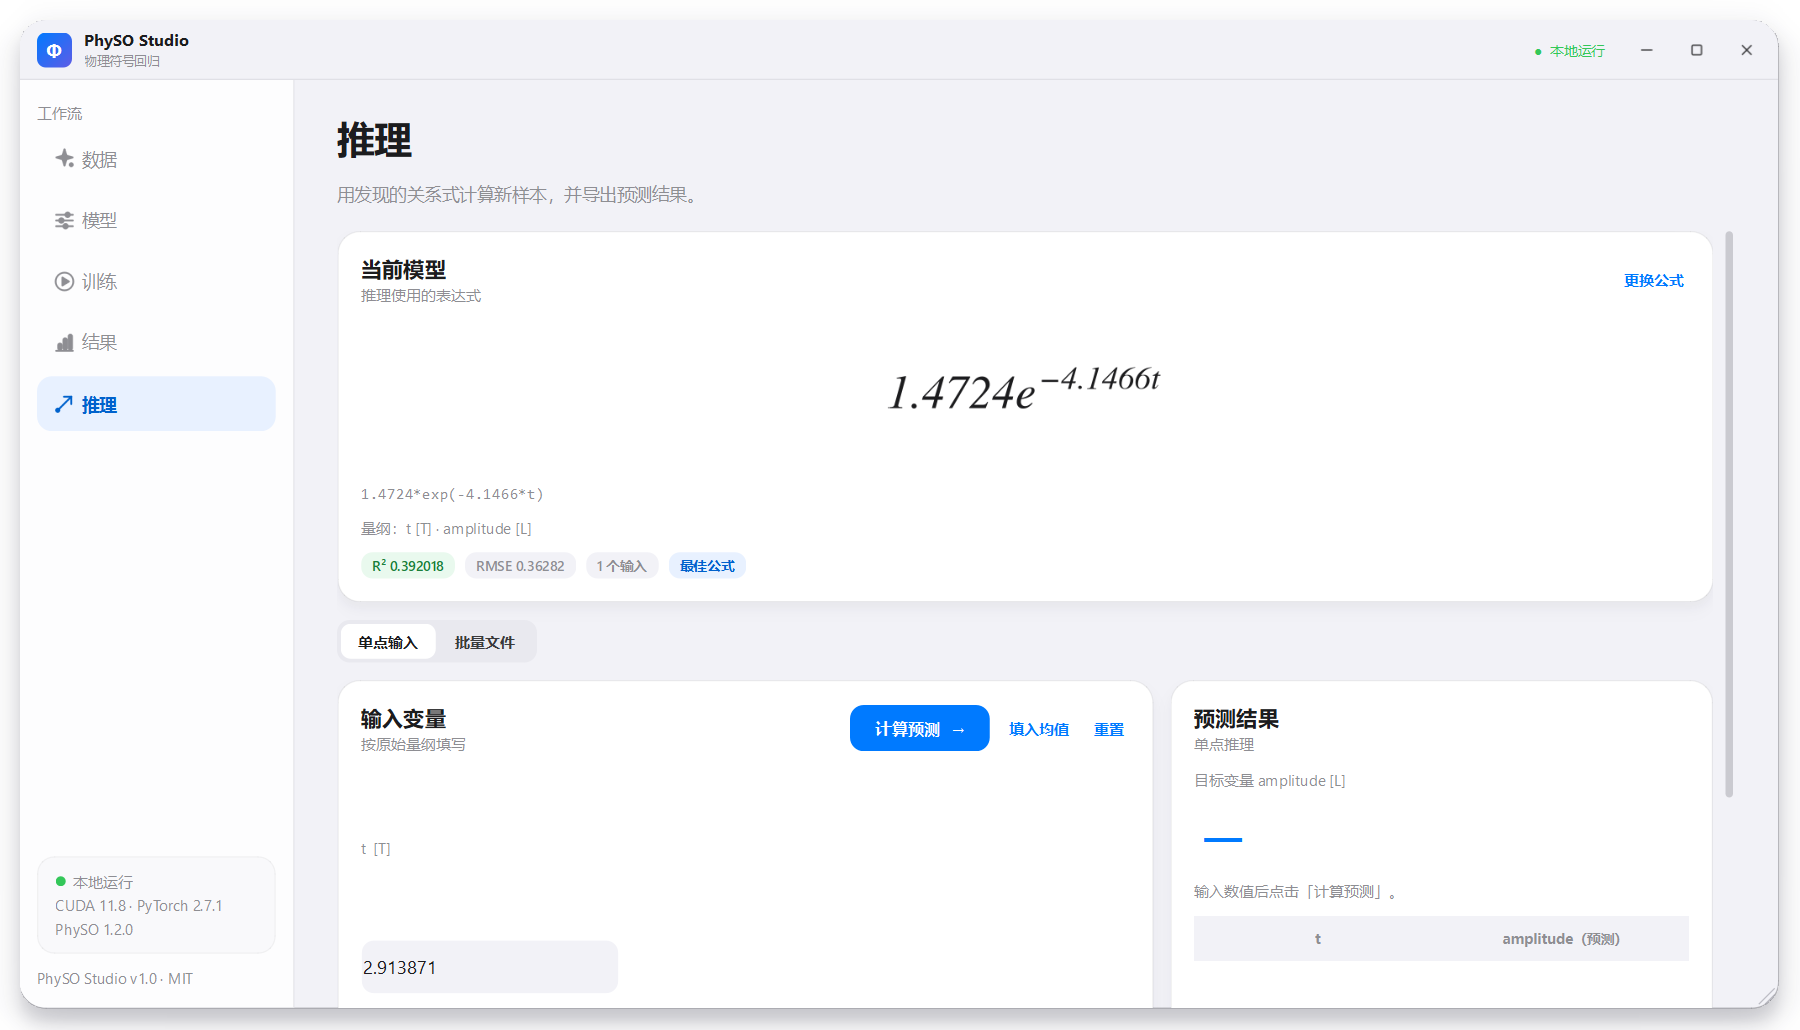
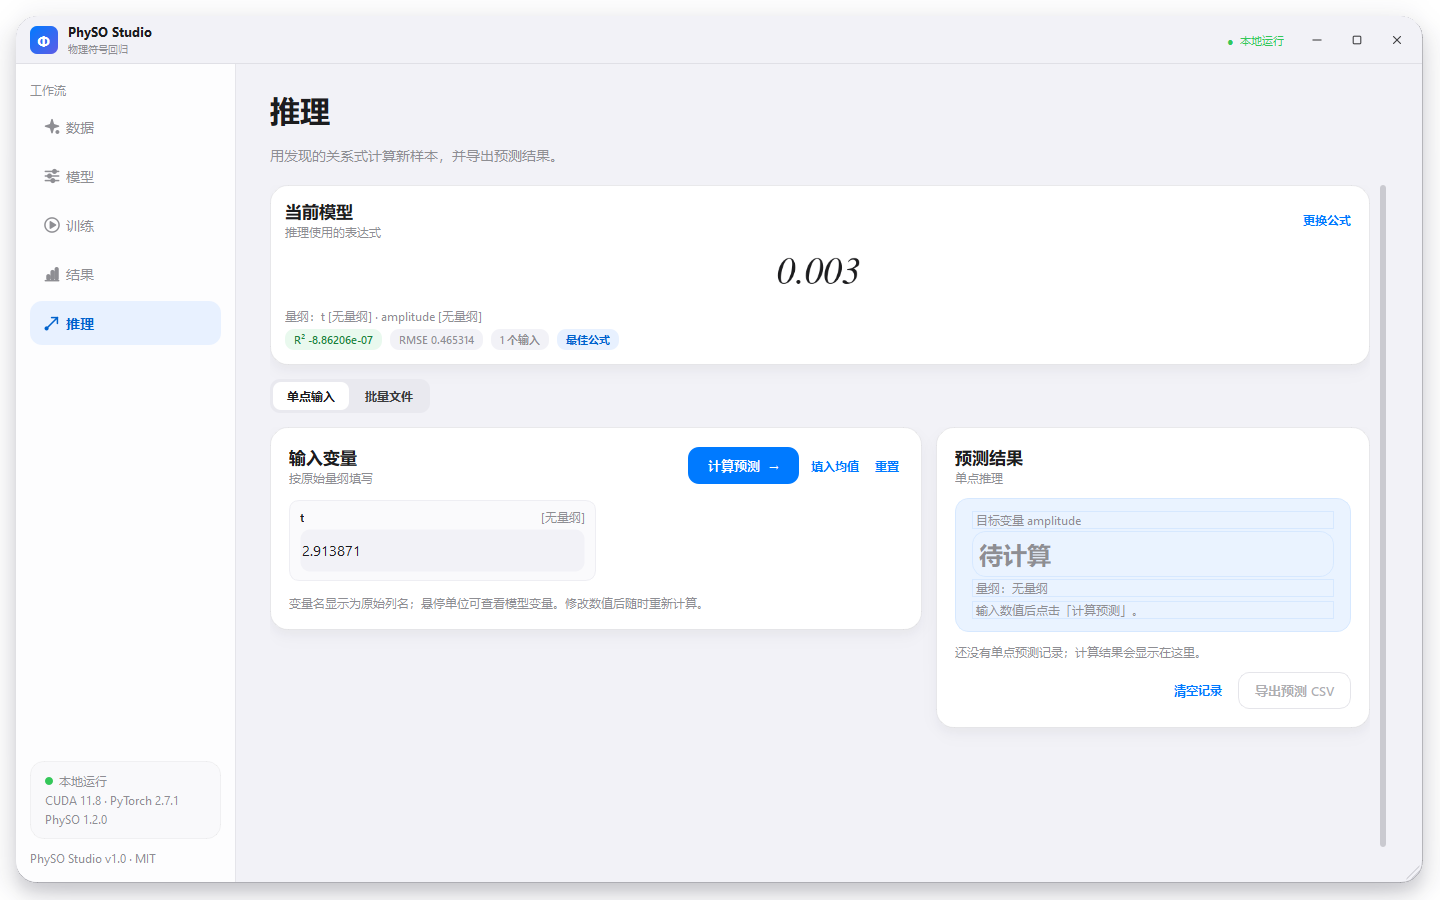
style: refine inference page cards and history empty state

diff --git a/physo_ui/pages/predict_page.py b/physo_ui/pages/predict_page.py
@@ -7,16 +7,17 @@ from pathlib import Path
 import numpy as np
 import pandas as pd
 from PySide6.QtCore import Qt, Signal
-from PySide6.QtGui import QDoubleValidator
 from PySide6.QtWidgets import (
     QDoubleSpinBox,
     QFileDialog,
+    QFrame,
     QGridLayout,
     QHBoxLayout,
     QHeaderView,
     QLabel,
     QMessageBox,
     QPushButton,
+    QSizePolicy,
     QStackedWidget,
     QTableWidget,
     QTableWidgetItem,
@@ -95,10 +96,14 @@ class PredictPage(ScrollPage):
         self.stack = QStackedWidget()
         self.stack.addWidget(self._build_single_panel())
         self.stack.addWidget(self._build_batch_panel())
-        lay.addWidget(self.stack, 1)
+        lay.addWidget(self.stack)
+        lay.addStretch(1)
 
     def _build_model_card(self, parent_layout) -> None:
-        card = Card(padding=18)
+        card = Card(padding=14)
+        self.model_card = card
+        card.layout.setSpacing(5)
+        card.setMaximumHeight(188)
         head = QHBoxLayout()
         head.setSpacing(10)
         head.addWidget(section_title("当前模型", "推理使用的表达式"), 1)
@@ -107,15 +112,18 @@ class PredictPage(ScrollPage):
         self.switch_btn.clicked.connect(self.result_requested.emit)
         head.addWidget(self.switch_btn)
         card.layout.addLayout(head)
-        self.expression_math = MathLabel("", fontsize=20, min_height=62)
+        self.expression_math = MathLabel("", fontsize=20, min_height=40)
+        self.expression_math.setMaximumHeight(58)
         self.expression_math.clear_formula("—")
         card.layout.addWidget(self.expression_math)
         self.expression_label = label("", "Caption", wrap=True, selectable=True)
         self.expression_label.setStyleSheet(
             "font-family: Consolas, 'Cascadia Code', monospace; color:#8E8E93;"
         )
-        card.layout.addWidget(self.expression_label)
+        self.expression_label.setMaximumHeight(0)
+        self.expression_label.setVisible(False)
         self.model_units = label("", "Caption", wrap=True)
+        self.model_units.setMaximumHeight(18)
         card.layout.addWidget(self.model_units)
         meta = QHBoxLayout()
         meta.setSpacing(8)
@@ -139,6 +147,7 @@ class PredictPage(ScrollPage):
 
         input_card = Card(padding=18)
         head = QHBoxLayout()
+        head.setSpacing(8)
         head.addWidget(section_title("输入变量", "按原始量纲填写"), 1)
         calc = QPushButton("计算预测  →")
         calc.setProperty("variant", "primary")
@@ -154,40 +163,59 @@ class PredictPage(ScrollPage):
         self.reset_btn.clicked.connect(self._reset_inputs)
         head.addWidget(self.reset_btn)
         input_card.layout.addLayout(head)
+
         self.form_host = QWidget()
+        self.form_host.setSizePolicy(QSizePolicy.Expanding, QSizePolicy.Maximum)
         self.form_layout = QGridLayout(self.form_host)
-        self.form_layout.setContentsMargins(0, 0, 0, 0)
-        self.form_layout.setHorizontalSpacing(16)
-        self.form_layout.setVerticalSpacing(10)
+        self.form_layout.setContentsMargins(0, 2, 0, 2)
+        self.form_layout.setHorizontalSpacing(12)
+        self.form_layout.setVerticalSpacing(12)
         input_card.layout.addWidget(self.form_host)
-        calc = QPushButton("计算预测  →")
-        calc.setProperty("variant", "primary")
-        calc.setMinimumHeight(38)
-        calc.clicked.connect(self._predict_single)
-        input_card.layout.addWidget(calc)
-        lay.addWidget(input_card, 3)
+        hint = label(
+            "变量名显示为原始列名；悬停单位可查看模型变量。修改数值后随时重新计算。",
+            "Caption",
+            wrap=True,
+        )
+        input_card.layout.addWidget(hint)
+        input_card.layout.addStretch(1)
+        lay.addWidget(input_card, 3, Qt.AlignTop)
 
         out_card = Card(padding=18)
         out_card.layout.addWidget(section_title("预测结果", "单点推理"))
+        pred_box = QFrame()
+        pred_box.setStyleSheet(
+            "QFrame { background:#EAF3FF; border:1px solid #D6E8FF; border-radius:14px; }"
+            "QLabel { background:transparent; }"
+        )
+        pv = QVBoxLayout(pred_box)
+        pv.setContentsMargins(16, 12, 16, 12)
+        pv.setSpacing(2)
         self.pred_caption = label("目标变量 y", "Caption")
-        out_card.layout.addWidget(self.pred_caption)
         self.pred_label = QLabel("—")
         self.pred_label.setTextInteractionFlags(Qt.TextSelectableByMouse)
         self.pred_label.setStyleSheet(
-            f"font-size:30px; font-weight:700; color:{theme.BLUE}; padding:4px 0;"
+            f"font-size:34px; font-weight:700; color:{theme.BLUE}; padding:0;"
         )
-        out_card.layout.addWidget(self.pred_label)
+        self.pred_unit = label("", "Caption")
         self.pred_note = label("输入数值后点击「计算预测」。", "Caption", wrap=True)
-        out_card.layout.addWidget(self.pred_note)
+        pv.addWidget(self.pred_caption)
+        pv.addWidget(self.pred_label)
+        pv.addWidget(self.pred_unit)
+        pv.addSpacing(2)
+        pv.addWidget(self.pred_note)
+        out_card.layout.addWidget(pred_box)
+
         self.history_table = QTableWidget()
         self.history_table.setEditTriggers(QTableWidget.NoEditTriggers)
         self.history_table.verticalHeader().setVisible(False)
         self.history_table.setShowGrid(False)
         self.history_table.setAlternatingRowColors(True)
         self.history_table.setMinimumHeight(120)
-        self.history_table.setMaximumHeight(200)
+        self.history_table.setMaximumHeight(180)
         self.history_table.horizontalHeader().setSectionResizeMode(QHeaderView.Stretch)
         out_card.layout.addWidget(self.history_table)
+        self.history_empty = label("还没有单点预测记录；计算结果会显示在这里。", "Caption", wrap=True)
+        out_card.layout.addWidget(self.history_empty)
         actions = QHBoxLayout()
         actions.addStretch(1)
         self.clear_hist_btn = QPushButton("清空记录")
@@ -200,7 +228,7 @@ class PredictPage(ScrollPage):
         self.export_single_btn.clicked.connect(self._export_single)
         actions.addWidget(self.export_single_btn)
         out_card.layout.addLayout(actions)
-        lay.addWidget(out_card, 2)
+        lay.addWidget(out_card, 2, Qt.AlignTop)
         return panel
 
     def _build_batch_panel(self) -> QWidget:
@@ -263,7 +291,7 @@ class PredictPage(ScrollPage):
         export.setEnabled(False)
         export.clicked.connect(self._export_batch)
         out_card.layout.addWidget(export)
-        lay.addWidget(out_card, 2)
+        lay.addWidget(out_card, 2, Qt.AlignTop)
         return panel
 
     # -------------------------------------------------------------- refresh #
@@ -288,8 +316,12 @@ class PredictPage(ScrollPage):
         self._rebuild_form(result)
         self._history.clear()
         self._refresh_history_table()
-        self.pred_label.setText("—")
-        self.pred_caption.setText(f"目标变量 {result.y_name} [{format_units(result.y_units)}]")
+        self.pred_label.setText("待计算")
+        self.pred_label.setStyleSheet(
+            f"font-size:24px; font-weight:600; color:{theme.GRAY}; padding:6px 0;"
+        )
+        self.pred_caption.setText(f"目标变量 {result.y_name}")
+        self.pred_unit.setText(f"量纲：{format_units(result.y_units)}")
         self.pred_note.setText("输入数值后点击「计算预测」。")
         self._batch_result = None
         self.batch_result_table.clear()
@@ -301,17 +333,30 @@ class PredictPage(ScrollPage):
         clear_layout(self.form_layout)
         self._single_values.clear()
         medians = result.summary.get("x_median") or [0.0] * len(result.x_names)
-        means = result.summary.get("x_mean") or [0.0] * len(result.x_names)
         mins = result.summary.get("x_min") or [None] * len(result.x_names)
         maxs = result.summary.get("x_max") or [None] * len(result.x_names)
         for i, name in enumerate(result.x_names):
-            row = i // 2
-            col = (i % 2) * 2
+            row, col = divmod(i, 2)
             title = result.x_columns[i] if i < len(result.x_columns) else name
             unit_text = format_units(result.x_units[i]) if i < len(result.x_units) else "—"
-            lbl = label(f"{title}  [{unit_text}]", "Caption")
+            field = QFrame()
+            field.setStyleSheet(
+                "QFrame { background:#FAFAFC; border:1px solid #EEEEF3; border-radius:10px; }"
+                "QLabel { background:transparent; border:none; }"
+            )
+            fl = QVBoxLayout(field)
+            fl.setContentsMargins(10, 8, 10, 8)
+            fl.setSpacing(4)
+            top = QHBoxLayout()
+            top.setSpacing(6)
+            title_label = label(title, "CardTitle")
+            title_label.setStyleSheet("font-size:12px;")
             if title != name:
-                lbl.setToolTip(f"模型变量名：{name}")
+                title_label.setToolTip(f"模型变量名：{name}")
+            top.addWidget(title_label)
+            top.addStretch(1)
+            top.addWidget(label(f"[{unit_text}]", "Caption"))
+            fl.addLayout(top)
             spin = QDoubleSpinBox()
             spin.setDecimals(6)
             spin.setRange(-1e12, 1e12)
@@ -325,14 +370,10 @@ class PredictPage(ScrollPage):
                     f"数据范围：{D.format_number(mins[i], 6)} … {D.format_number(maxs[i], 6)}"
                 )
             self._single_values[name] = spin
-            self.form_layout.addWidget(lbl, row * 2, col)
-            self.form_layout.addWidget(spin, row * 2 + 1, col)
-        label_widget = label(
-            "变量名显示为原始列名；若与模型变量名不同，悬停可查看。",
-            "Caption",
-            wrap=True,
-        )
-        self.form_layout.addWidget(label_widget, self.form_layout.rowCount(), 0, 1, 4)
+            fl.addWidget(spin)
+            self.form_layout.addWidget(field, row, col)
+        for c in (0, 1):
+            self.form_layout.setColumnStretch(c, 1)
 
     def _current_X(self) -> np.ndarray:
         result = self.state.result
@@ -351,14 +392,17 @@ class PredictPage(ScrollPage):
             return
         value = float(np.asarray(pred).ravel()[0])
         if not np.isfinite(value):
+            self.pred_label.setStyleSheet(
+                f"font-size:30px; font-weight:700; color:{theme.RED}; padding:0;"
+            )
             self.pred_label.setText("NaN")
             self.pred_note.setText("预测结果不是有限数值，请检查输入是否在表达式定义域内。")
         else:
+            self.pred_label.setStyleSheet(
+                f"font-size:34px; font-weight:700; color:{theme.BLUE}; padding:0;"
+            )
             self.pred_label.setText(D.format_number(value, 8))
-            unit_text = format_units(result.y_units)
-        self.pred_note.setText(
-            f"{result.y_name} [{unit_text}] · 由 {result.active.display_expression}"
-        )
+            self.pred_note.setText(f"由当前公式计算 · {result.active.display_expression}")
         row = {name: self._single_values[name].value() for name in result.x_names}
         row["prediction"] = value
         self._history.append(row)
@@ -383,6 +427,8 @@ class PredictPage(ScrollPage):
             pred_item.setTextAlignment(Qt.AlignRight | Qt.AlignVCenter)
             self.history_table.setItem(r, len(result.x_names), pred_item)
         self.export_single_btn.setEnabled(bool(self._history))
+        self.history_table.setVisible(bool(self._history))
+        self.history_empty.setVisible(not bool(self._history))
         if self._history:
             self.history_table.scrollToBottom()
 

diff --git a/README.md b/README.md
@@ -19,7 +19,7 @@ PhySO Studio 是一个基于 **PySide6** 的本地桌面应用，为 [PhySO（Ph
 - **后台训练**：QThread 中运行 PhySO；**每个 epoch 实时渲染截至当前轮次的最优公式**。训练页分为「训练概览 / 过程与配置」两个子视图，分别展示实时曲线、逐轮指标、运行日志和完整配置，避免页面无限变长。支持停止并保留当前最优结果。
 - **数学公式渲染**：所有公式通过 SymPy → LaTeX → matplotlib mathtext 渲染为真正的数学排版，支持分数、指数、根式、对数、三角函数、绝对值以及多层嵌套；`n2(x)` 等 PhySO 算子会转写为 `x²`、`log|x|` 等数学记号。
 - **结果分析**：渲染后的最佳表达式、6 项指标（训练/评估 R²、RMSE、MAE、复杂度、用时）、训练摘要、变量量纲、自由常数值、Pareto 前沿表格/图、候选公式预览、训练/评估拟合图与残差图、逐轮历史表。
-- **推理**：单点输入（自动填入数据中位数/均值）、批量文件预测、当前数据集预测；预测结果可导出为 CSV。
+- **推理**：紧凑的字段卡片输入（自动填入中位数，可一键均值/重置），预测值以高亮结果卡展示；支持批量文件/当前数据集预测，空历史有轻量提示，结果可导出 CSV。
 - **结果持久化**：每次训练自动写入 `runs/<时间戳-数据集>/`，包含 `result.json`、表达式、配置、预测 CSV、PNG 图表、PhySO 日志；支持重新载入结果继续推理。
 - **示例数据**：内置 9 个带公式与量纲说明的物理/数学数据集。
 - **界面**：无边框圆角窗口（iOS 风格弹窗观感）、自定义标题栏、iOS 浅色卡片、开关、分段控件、页面淡入动画；支持 `Ctrl+1…5` 切换页面。窗口启动时按屏幕可用区域自动调整尺寸，避免超出屏幕；数据页、模型页和训练页均采用紧凑布局/子视图切换，常用操作在首屏可见；不设单独简介页。
